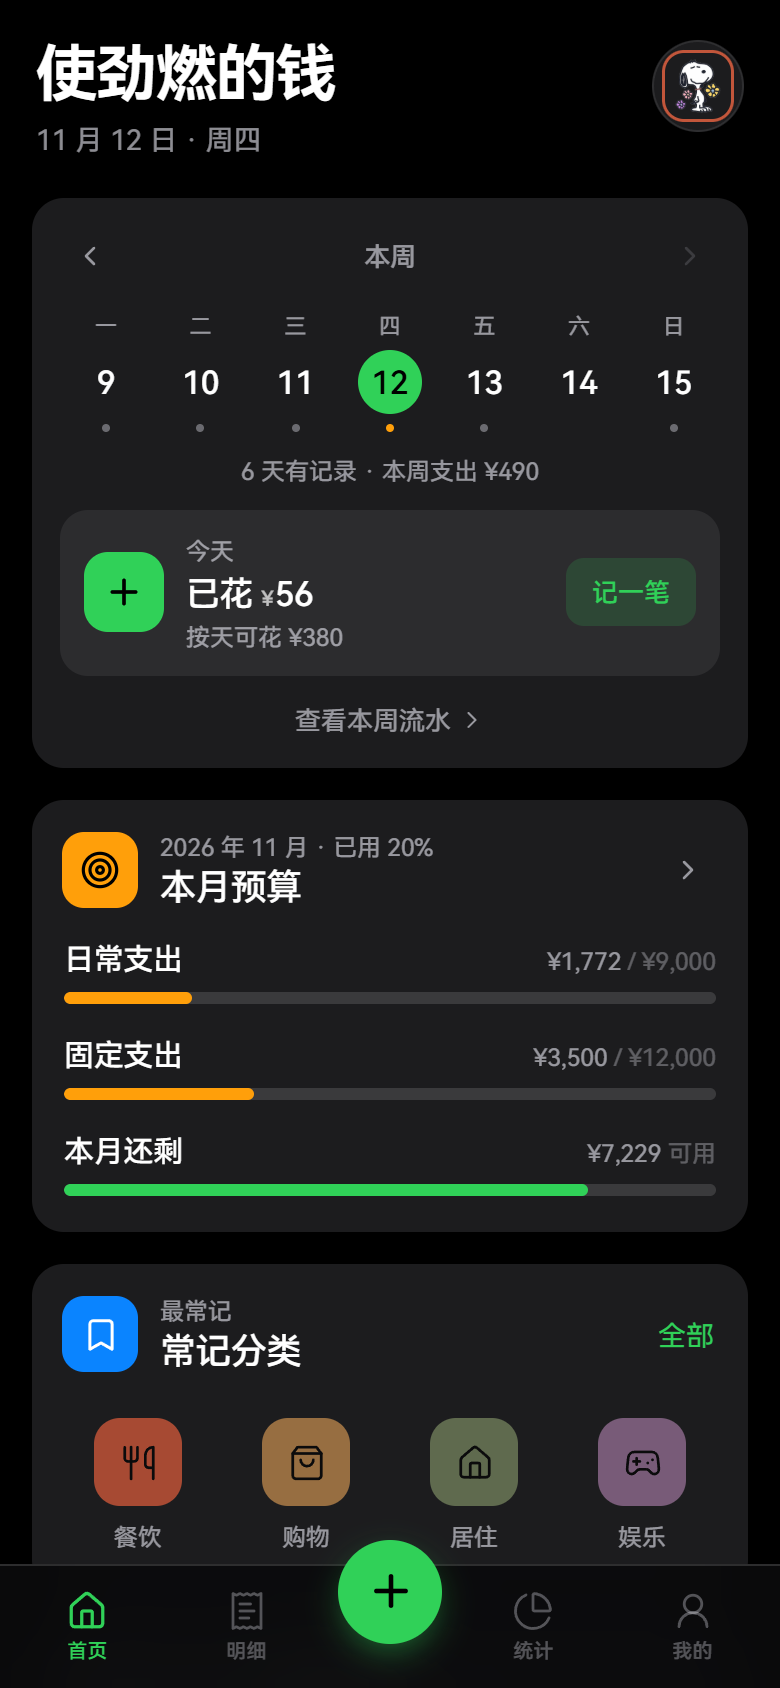
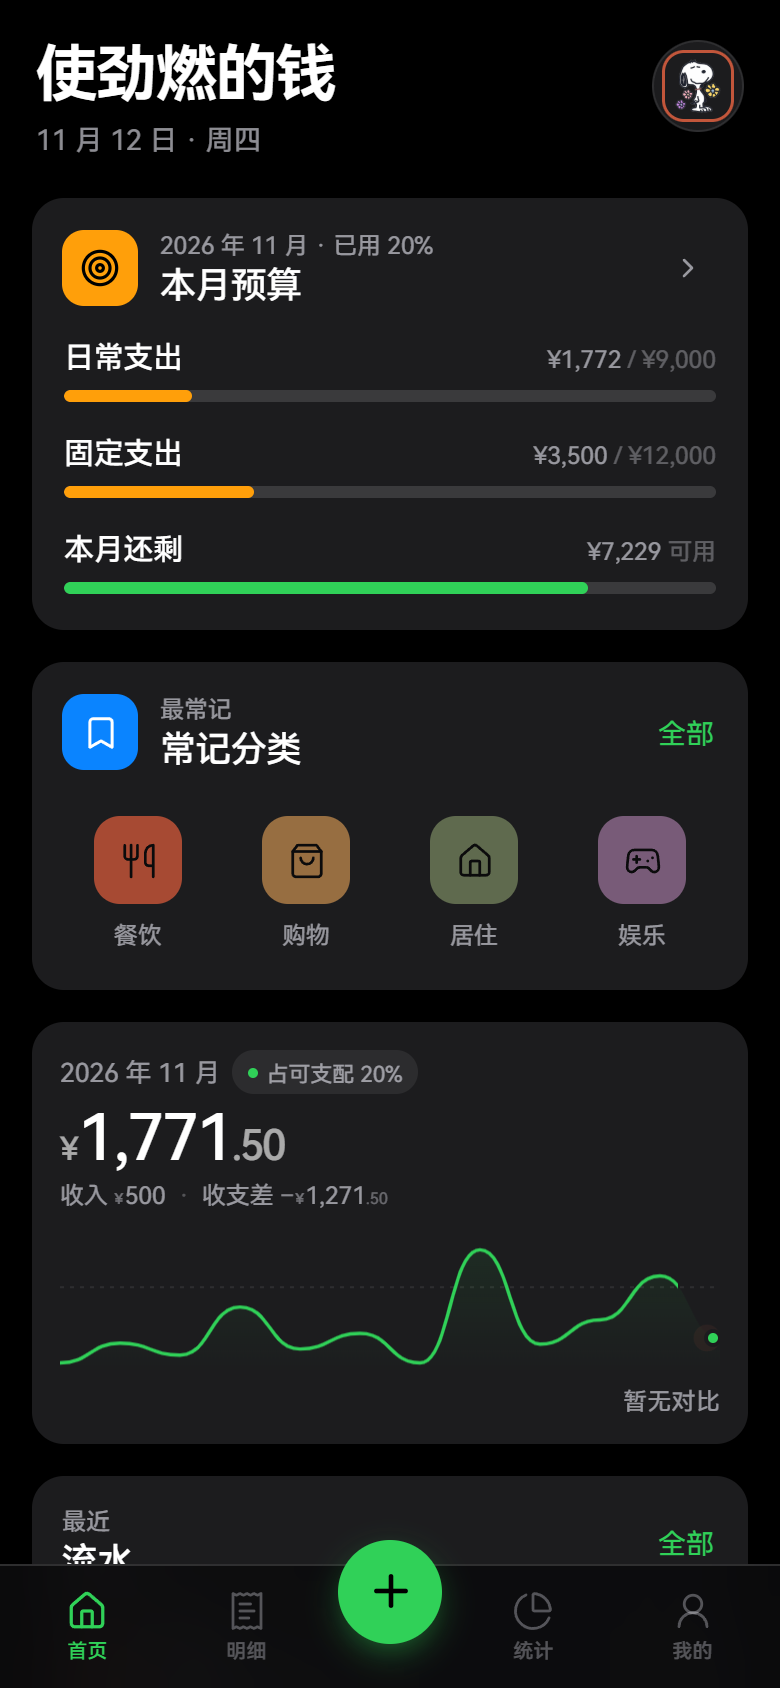
首页：去掉本周日历卡，直接从本月预算开始

Changed region(s): [[0.0308, 0.1232, 0.9846, 0.9242], [0.4308, 0.1232, 0.5538, 0.154]]

diff --git a/src/pages/Home.tsx b/src/pages/Home.tsx
@@ -1,13 +1,5 @@
 import type { CSSProperties } from 'react'
-import { useState } from 'react'
-import {
-  Bookmark,
-  ChevronLeft,
-  ChevronRight,
-  Plus,
-  ReceiptText,
-  Target,
-} from 'lucide-react'
+import { Bookmark, ChevronRight, ReceiptText, Target } from 'lucide-react'
 import { useLedger } from '../data'
 import {
   addDays,
@@ -15,22 +7,18 @@ import {
   categoryBreakdown,
   dailySeries,
   daysInMonth,
-  eachDay,
   formatDay,
-  formatMoneyShort,
   formatMonth,
   formatPercent,
   inRange,
   moneyFlow,
   monthRange,
   parseDate,
-  startOfWeek,
   stateMonthTxs,
   sumAmount,
   summarize,
   todayStr,
   weekdayLabel,
-  weekdayShort,
 } from '../utils'
 import { EXPENSE_CATEGORIES, findCategory } from '../data'
 import type { Tx } from '../types'
@@ -53,28 +41,8 @@ export function Home({
 }) {
   const { state } = useLedger()
   const today = todayStr()
-  const [weekOffset, setWeekOffset] = useState(0)
-
   const monthTxs = stateMonthTxs(state, today)
   const flow = moneyFlow(state.settings, monthTxs, today)
-  const todayTxs = state.txs.filter((t) => t.date === today)
-  const todaySum = summarize(todayTxs)
-
-  const base = startOfWeek(today)
-  const weekStart = addDays(base, weekOffset * 7)
-  const weekEnd = addDays(weekStart, 6)
-  const weekDays = eachDay(weekStart, weekEnd)
-  const weekTxs = inRange(state.txs, weekStart, weekEnd)
-  const weekExpense = sumAmount(weekTxs, 'expense')
-  const weekStats = new Map<string, { expense: number; count: number }>()
-  for (const tx of weekTxs) {
-    const row = weekStats.get(tx.date) ?? { expense: 0, count: 0 }
-    if (tx.type === 'expense') row.expense += tx.amount
-    row.count += 1
-    weekStats.set(tx.date, row)
-  }
-  const recordedDays = weekDays.filter((d) => (weekStats.get(d)?.count ?? 0) > 0).length
-
   const recent = [...state.txs]
     .sort((a, b) => b.date.localeCompare(a.date) || b.createdAt - a.createdAt)
     .slice(0, 5)
@@ -92,7 +60,6 @@ export function Home({
   const fixedPct = flow.salary > 0 ? (flow.fixedCost / flow.salary) * 100 : 0
   const remainPct = flow.available > 0 ? (Math.max(0, flow.remaining) / flow.available) * 100 : 0
   const todayLabel = `${formatDay(today)} · ${weekdayLabel(today)}`
-  const weekTitle = weekOffset === 0 ? '本周' : `${formatDay(weekStart)} – ${formatDay(weekEnd)}`
   const monthSum = summarize(monthTxs)
   const points = dailySeries(monthTxs, monthRange(today).start, today).map((d) => d.amount)
   const prevStart = monthRange(addMonths(today, -1)).start
@@ -111,73 +78,6 @@ export function Home({
           <Seal />
         </button>
       </header>
-
-      <section className="og-card" aria-label="本周概览">
-        <div className="og-week-nav">
-          <button
-            className="og-icon-btn"
-            onClick={() => setWeekOffset((w) => w - 1)}
-            aria-label="上一周"
-            type="button"
-          >
-            <ChevronLeft size={16} strokeWidth={2} />
-          </button>
-          <span>{weekTitle}</span>
-          <button
-            className="og-icon-btn"
-            onClick={() => setWeekOffset((w) => Math.min(0, w + 1))}
-            aria-label="下一周"
-            type="button"
-            disabled={weekOffset >= 0}
-          >
-            <ChevronRight size={16} strokeWidth={2} />
-          </button>
-        </div>
-
-        <div className="og-week">
-          {weekDays.map((day) => {
-            const row = weekStats.get(day)
-            const isToday = day === today
-            return (
-              <div key={day} className={`og-day${isToday ? ' is-today' : ''}`}>
-                <span>{weekdayShort(day)}</span>
-                <b>{Number(day.slice(-2))}</b>
-                <i className={row && row.count > 0 ? 'has' : ''} />
-              </div>
-            )
-          })}
-        </div>
-
-        <p className="og-week-note">
-          {recordedDays} 天有记录 · 本周支出 ¥{formatMoneyShort(weekExpense)}
-        </p>
-
-        <div className="og-today">
-          <span className="og-tile is-green">
-            <Plus size={20} strokeWidth={2.2} />
-          </span>
-          <div className="og-today-copy">
-            <span className="og-eyebrow">{weekOffset === 0 ? '今天' : '这一周'}</span>
-            <b>
-              {weekOffset === 0 ? '已花 ' : '共花 '}
-              <Money cents={weekOffset === 0 ? todaySum.expense : weekExpense} decimals="never" />
-            </b>
-            <small>
-              {weekOffset === 0
-                ? `按天可花 ¥${formatMoneyShort(Math.max(0, flow.dailyAvailable))}`
-                : `${recordedDays} 天有记录`}
-            </small>
-          </div>
-          <button className="og-pill" onClick={onAdd} type="button">
-            {weekOffset === 0 ? '记一笔' : '记今天'}
-          </button>
-        </div>
-
-        <button className="og-ghost-row" onClick={onGoLedger} type="button">
-          查看本周流水
-          <ChevronRight size={14} strokeWidth={1.8} />
-        </button>
-      </section>
 
       <section className="og-card" aria-label="本月预算">
         <div className="og-card-head">

diff --git a/src/pages/Me.tsx b/src/pages/Me.tsx
@@ -109,7 +109,7 @@ export function Me() {
       <footer className="me-foot">
         <Seal size="mini" />
         <div>
-          <b>使劲燃的钱 v1.1.1</b>
+          <b>使劲燃的钱 v1.1.2</b>
           <p><ShieldCheck size={13} strokeWidth={1.6} /> 数据只保存在这台手机上，不上传</p>
         </div>
         <button

diff --git a/README.md b/README.md
@@ -6,13 +6,13 @@
 
 - 纯本地存储，不联网、不上传、无广告、无账号
 - 黑色 / 炭灰卡片 + iOS 绿强调的深色界面，鸿蒙 Sans 中文 + Nunito 圆体数字；版式参考 openGym，代码全部重写
-- 安装包：`release/使劲燃的钱-1.1.1.apk`（约 5.0 MB，minSdk 23 / targetSdk 35）
+- 安装包：`release/使劲燃的钱-1.1.2.apk`（约 5.0 MB，minSdk 23 / targetSdk 35）
 
 ## 功能
 
 | 模块 | 内容 |
 | --- | --- |
-| 首页 | 本周七天条（今天高亮、记一笔）、本月预算三条进度、常记分类、本月趋势、最近流水 |
+| 首页 | 本月预算三条进度、常记分类、本月趋势、最近流水 |
 | 记一笔 | 自研 4×4 算式键盘（+ / − 实时合计）、金额分位显示、18 个内置分类（12 支出 / 6 收入）、备注、日期 |
 | 明细 | 月历（每天带净额，可切金额/圆点、收起成周视图）、上/下月与「今」、点日期看当天流水、点开可改可删 |
 | 统计 | 日 / 周 / 月三档；总支出与环比；每日柱状图；分类环形图与排行；月度预算占用 |

diff --git a/CHANGELOG.md b/CHANGELOG.md
@@ -1,5 +1,12 @@
 # 更新记录
 
+## 1.1.2 — 2026-11-12
+
+安装包 `release/使劲燃的钱-1.1.2.apk`（约 5.0 MB，versionCode 12）。
+
+- 首页移除本周日历卡（七天条、上一周/下一周、记一笔按钮），页面直接从「本月预算」开始；记账仍走底部中央的加号和常记分类。
+- 版本号 1.1.2（versionCode 12）。
+
 ## 1.1.1 — 2026-11-12
 
 安装包 `release/使劲燃的钱-1.1.1.apk`（约 5.0 MB，versionCode 11）。
